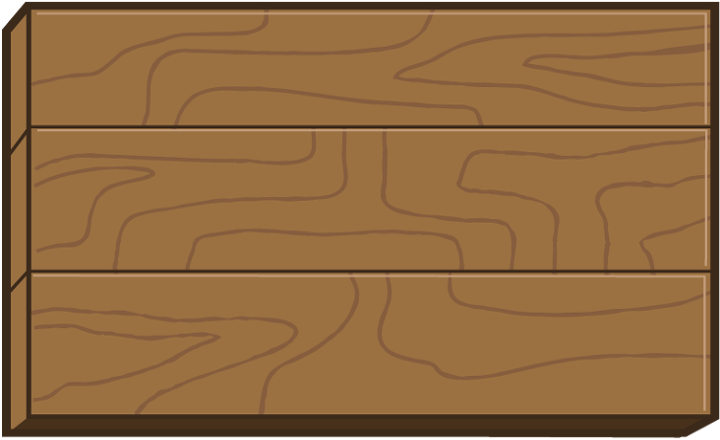
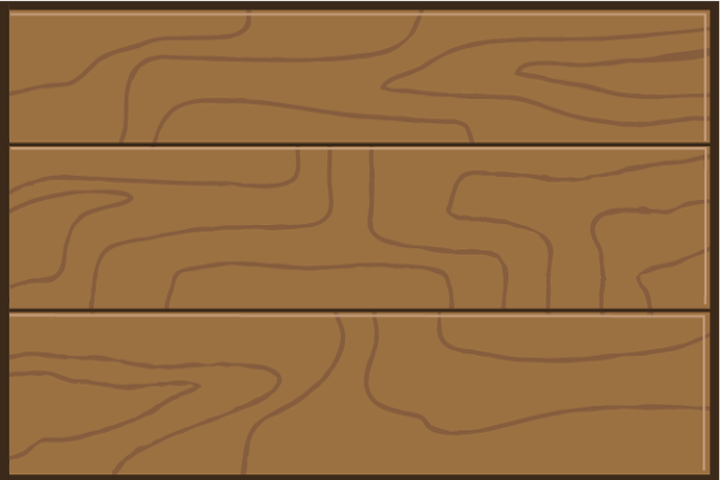
Speed increment and parallax modification (needs value tuning)

Changed region(s): [[0.0, 0.0, 1.0, 1.0], [0.9778, 0.4727, 1.0, 0.5318], [0.9778, 0.3841, 1.0, 0.4136]]

diff --git a/AnimalDash/src/com/lucianosimo/animaldash/scene/GameScene.java b/AnimalDash/src/com/lucianosimo/animaldash/scene/GameScene.java
@@ -84,10 +84,17 @@ public class GameScene extends BaseScene  implements IOnSceneTouchListener {
 	//Rectangles
 	
 	//Counters
+	private int pressedButtonCounter;
 	
-	//Pools
-	
-	//Explosions
+	//Background
+	private AutoParallaxBackground autoParallaxBackground;
+	private ParallaxEntity backgroundLayer1;
+	private ParallaxEntity backgroundLayer2;
+	private ParallaxEntity backgroundLayer3;
+	private ParallaxEntity backgroundLayer4;
+	private ParallaxEntity backgroundLayer5;
+	private ParallaxEntity backgroundLayer6;
+	private int parallaxChangeForSecond;
 
 	//Constants
 	private final static int GRAVITY_Y = -20;
@@ -145,19 +152,24 @@ public class GameScene extends BaseScene  implements IOnSceneTouchListener {
 	}
 	
 	private void createBackground() {
-		final AutoParallaxBackground autoParallaxBackground = new AutoParallaxBackground(0, 0, 0, 5);
-		autoParallaxBackground.attachParallaxEntity(
-				new ParallaxEntity(0.0f, new Sprite(screenWidth / 2, screenHeight / 2, screenWidth, screenHeight, resourcesManager.game_background_1_layer_1_region, vbom)));
-		autoParallaxBackground.attachParallaxEntity(
-				new ParallaxEntity(-2.5f, new Sprite(screenWidth / 2, screenHeight / 2, screenWidth, screenHeight, resourcesManager.game_background_1_layer_2_region, vbom)));
-		autoParallaxBackground.attachParallaxEntity(
-				new ParallaxEntity(-5.0f, new Sprite(screenWidth / 2, screenHeight / 2, screenWidth, screenHeight, resourcesManager.game_background_1_layer_3_region, vbom)));
-		autoParallaxBackground.attachParallaxEntity(
-				new ParallaxEntity(-7.5f, new Sprite(screenWidth / 2, screenHeight / 2, screenWidth, screenHeight, resourcesManager.game_background_1_layer_4_region, vbom)));
-		autoParallaxBackground.attachParallaxEntity(
-				new ParallaxEntity(-10.0f, new Sprite(screenWidth / 2, screenHeight / 2, screenWidth, screenHeight, resourcesManager.game_background_1_layer_5_region, vbom)));
-		autoParallaxBackground.attachParallaxEntity(
-				new ParallaxEntity(-12.5f, new Sprite(screenWidth / 2, screenHeight / 2, screenWidth, screenHeight, resourcesManager.game_background_1_layer_6_region, vbom)));
+		parallaxChangeForSecond = 5;
+		
+		autoParallaxBackground = new AutoParallaxBackground(0, 0, 0, parallaxChangeForSecond);
+		
+		backgroundLayer1 = new ParallaxEntity(0.0f, new Sprite(screenWidth / 2, screenHeight / 2, screenWidth, screenHeight, resourcesManager.game_background_1_layer_1_region, vbom));
+		backgroundLayer2 = new ParallaxEntity(-2.5f, new Sprite(screenWidth / 2, screenHeight / 2, screenWidth, screenHeight, resourcesManager.game_background_1_layer_2_region, vbom));
+		backgroundLayer3 = new ParallaxEntity(-5.0f, new Sprite(screenWidth / 2, screenHeight / 2, screenWidth, screenHeight, resourcesManager.game_background_1_layer_3_region, vbom));
+		backgroundLayer4 = new ParallaxEntity(-7.5f, new Sprite(screenWidth / 2, screenHeight / 2, screenWidth, screenHeight, resourcesManager.game_background_1_layer_4_region, vbom));
+		backgroundLayer5 = new ParallaxEntity(-10.0f, new Sprite(screenWidth / 2, screenHeight / 2, screenWidth, screenHeight, resourcesManager.game_background_1_layer_5_region, vbom));
+		backgroundLayer6 = new ParallaxEntity(-12.5f, new Sprite(screenWidth / 2, screenHeight / 2, screenWidth, screenHeight, resourcesManager.game_background_1_layer_6_region, vbom));
+		
+		autoParallaxBackground.attachParallaxEntity(backgroundLayer1);
+		autoParallaxBackground.attachParallaxEntity(backgroundLayer2);
+		autoParallaxBackground.attachParallaxEntity(backgroundLayer3);
+		autoParallaxBackground.attachParallaxEntity(backgroundLayer4);
+		autoParallaxBackground.attachParallaxEntity(backgroundLayer5);
+		autoParallaxBackground.attachParallaxEntity(backgroundLayer6);
+		
 	    this.setBackground(autoParallaxBackground);
 	}
 
@@ -191,7 +203,21 @@ public class GameScene extends BaseScene  implements IOnSceneTouchListener {
 	
 	private void createPlayer() {
 		player = new Player(screenWidth/2, screenHeight/2 + 200, vbom, camera, physicsWorld) {
-			
+			@Override
+			protected void onManagedUpdate(float pSecondsElapsed) {
+				super.onManagedUpdate(pSecondsElapsed);
+				
+				if (pressedButtonCounter == 1) {
+					pressedButtonCounter = 0;
+					player.incrementSpeed();
+					
+					if (parallaxChangeForSecond <= 10) {
+						parallaxChangeForSecond++;
+						autoParallaxBackground.setParallaxChangePerSecond(parallaxChangeForSecond);
+					}
+					
+				}
+			}
 			@Override
 			public void onDie() {
 				
@@ -205,7 +231,7 @@ public class GameScene extends BaseScene  implements IOnSceneTouchListener {
 	private void createMenu() {
 		gameHud = new HUD();
 		
-		game_hud_background = new Sprite(screenWidth / 2, screenHeight / 2 - 385, resourcesManager.game_hud_background_region, vbom);
+		game_hud_background = new Sprite(screenWidth / 2, screenHeight / 2 - 400, resourcesManager.game_hud_background_region, vbom);
 		menu_title = new Sprite(screenWidth / 2, screenHeight - 300, resourcesManager.game_menu_title_region, vbom);
 		
 		menu_play_button = new Sprite(screenWidth / 2, screenHeight / 2, resourcesManager.game_menu_play_button_region, vbom) {
@@ -335,7 +361,10 @@ public class GameScene extends BaseScene  implements IOnSceneTouchListener {
 								|| enableButton(enemy1[1].getX(), player.getX())
 								|| enableButton(enemy1[2].getX(), player.getX())
 								|| enableButton(enemy1[3].getX(), player.getX()))) {
+					
+					pressedButtonCounter++;
 					player.jump(1);
+					
 				}
 				return false;
 			}
@@ -348,7 +377,10 @@ public class GameScene extends BaseScene  implements IOnSceneTouchListener {
 								|| enableButton(enemy2[1].getX(), player.getX())
 								|| enableButton(enemy2[2].getX(), player.getX())
 								|| enableButton(enemy2[3].getX(), player.getX()))) {
+					
+					pressedButtonCounter++;
 					player.jump(2);
+					
 				}
 				return false;
 			}
@@ -361,7 +393,10 @@ public class GameScene extends BaseScene  implements IOnSceneTouchListener {
 								|| enableButton(enemy3[1].getX(), player.getX())
 								|| enableButton(enemy3[2].getX(), player.getX())
 								|| enableButton(enemy3[3].getX(), player.getX()))) {
+					
+					pressedButtonCounter++;
 					player.jump(3);
+					
 				}
 				return false;
 			}
@@ -374,7 +409,10 @@ public class GameScene extends BaseScene  implements IOnSceneTouchListener {
 								|| enableButton(enemy4[1].getX(), player.getX())
 								|| enableButton(enemy4[2].getX(), player.getX())
 								|| enableButton(enemy4[3].getX(), player.getX()))) {
+					
+					pressedButtonCounter++;
 					player.jump(4);
+					
 				}
 				return false;
 			}

diff --git a/AnimalDash/src/com/lucianosimo/animaldash/object/Player.java b/AnimalDash/src/com/lucianosimo/animaldash/object/Player.java
@@ -18,8 +18,8 @@ import com.lucianosimo.animaldash.manager.ResourcesManager;
 public abstract class Player extends Sprite{
 
 	private final static int PLAYER_INITIAL_SPEED = 5;
-	private final static int CAMERA_CHASE_RECTANGLE_WIDTH = 1;
-	private final static int CAMERA_CHASE_RECTANGLE_HEIGHT = 1;
+	private final static int CAMERA_CHASE_RECTANGLE_WIDTH = 128;
+	private final static int CAMERA_CHASE_RECTANGLE_HEIGHT = 128;
 	private final static int CAMERA_CHASE_PLAYER_DISTANCE = 450;
 	
 	private Body playerBody;
@@ -28,6 +28,8 @@ public abstract class Player extends Sprite{
 	private Body cameraChaseBody;
 	private FixtureDef cameraChaseFixture;
 	private Rectangle cameraChaseRectangle;
+	private int speedIncrement = 0;
+	private int speedIncrementLimit = 5;
 	
 	public abstract void onDie();
 	
@@ -43,6 +45,7 @@ public abstract class Player extends Sprite{
 	private void createPlayerPhysics(PhysicsWorld physicsWorld) {
 		playerFixture = PhysicsFactory.createFixtureDef(0, 0, 0);
 		playerBody = PhysicsFactory.createCircleBody(physicsWorld, this, BodyType.DynamicBody, playerFixture);
+		playerFixture.filter.groupIndex = -1;
 		
 		this.setUserData("player");
 		playerBody.setUserData("player");
@@ -53,13 +56,14 @@ public abstract class Player extends Sprite{
 			@Override
 			public void onUpdate(float pSecondsElapsed) {
 				super.onUpdate(pSecondsElapsed);
-				playerBody.setLinearVelocity(PLAYER_INITIAL_SPEED, playerBody.getLinearVelocity().y);
+				playerBody.setLinearVelocity(PLAYER_INITIAL_SPEED + speedIncrement, playerBody.getLinearVelocity().y);
 			}
 		});
 	}
 	
 	private void createCameraChaseRectanglePhysics(float pX, float pY, final Camera camera, PhysicsWorld physicsWorld, VertexBufferObjectManager vbom) {
 		cameraChaseRectangle = new Rectangle(pX + CAMERA_CHASE_PLAYER_DISTANCE, pY, CAMERA_CHASE_RECTANGLE_WIDTH, CAMERA_CHASE_RECTANGLE_HEIGHT, vbom);
+		cameraChaseRectangle.setAlpha(0);
 		
 		cameraChaseFixture = PhysicsFactory.createFixtureDef(0, 0, 0);
 		cameraChaseFixture.filter.groupIndex = -1;
@@ -86,6 +90,16 @@ public abstract class Player extends Sprite{
 	
 	public Rectangle getCameraChaseRectangle() {
 		return cameraChaseRectangle;
+	}
+	
+	public Body getCameraChaseBody() {
+		return cameraChaseBody;
+	}
+	
+	public void incrementSpeed() {
+		if (speedIncrement <= speedIncrementLimit) {
+			speedIncrement += 1;
+		}
 	}
 	
 	public void jump(int jumpFactor) {
